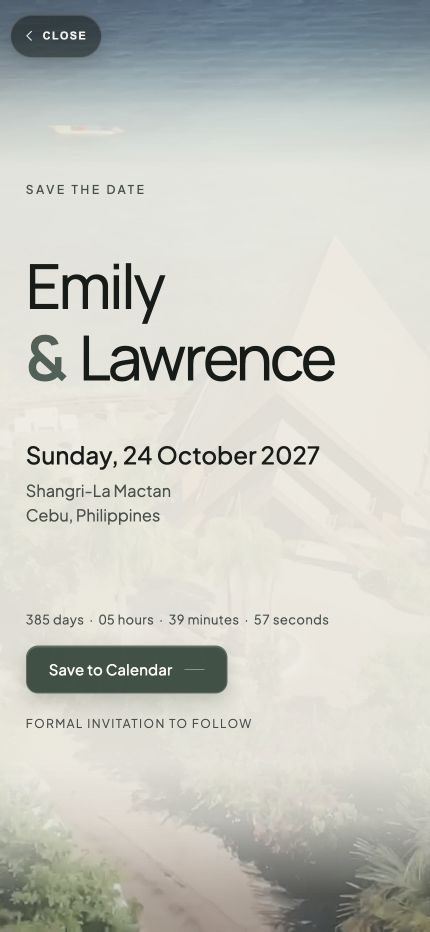
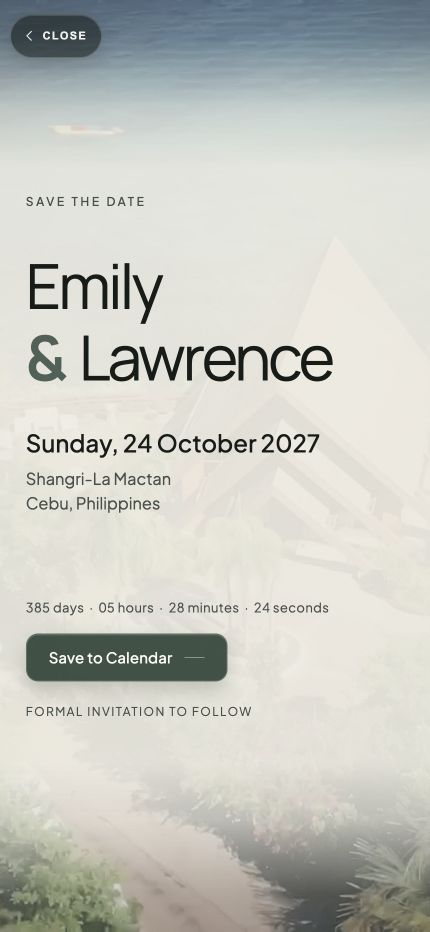
Lighten and tighten Save the Date name lockup

diff --git a/src/styles/save-the-date.names.css b/src/styles/save-the-date.names.css
@@ -11,23 +11,24 @@
 .names--lockup {
   --lockup-size: clamp(2.75rem, 14.5vw, 3.875rem);
 
-  /* Retain the three-row baseline's occupied height so the label, details,
-     countdown and actions stay where they were. Legacy em values resolve
-     against the unchanged parent font size; the visible rows set their own. */
+  /* Shorten the old three-row slot to bring the label and date closer to the
+     two visible lines. Legacy em values still resolve against the unchanged
+     parent font size; the visible rows set their own. */
   min-block-size: calc(
-    var(--names-size) * (2 * var(--names-leading) + 0.19) + 2 * var(--names-gap)
+    var(--names-size) * (2 * var(--names-leading) + 0.19) + 2 * var(--names-gap) -
+      clamp(1.5rem, 3.5vw, 3.25rem)
   );
   left: 0;
   top: 0;
   align-content: center;
   gap: calc(var(--lockup-size) * 0.08);
   font-family: "Manrope", "Avenir Next", "Segoe UI", system-ui, sans-serif;
-  font-weight: 450;
+  font-weight: 400;
 }
 
 .names--lockup .names__line {
   font-size: var(--lockup-size);
-  font-weight: 450;
+  font-weight: 400;
   line-height: 1.08;
   letter-spacing: -0.045em;
   white-space: nowrap;

diff --git a/screenshots/name-lockup/README.md b/screenshots/name-lockup/README.md
@@ -7,7 +7,7 @@ uncommitted changes are preserved in the original checkout.
 
 Before: Sirivennela names with a small ampersand on its own middle row.
 After: Manrope, Emily on line one, & Lawrence together on line two. Both names
-use weight 450. Only the ampersand uses 650, in the existing sage-deep colour
+use weight 400. Only the ampersand uses 650, in the existing sage-deep colour
 (`#4e6157`). The live date uses Plus Jakarta Sans; it is preserved unchanged.
 
 ## Exact typography rules
@@ -17,38 +17,40 @@ Only the name markup, a page-level stylesheet import, and the new scoped
 content, material, media and controls are untouched.
 
 - Self-hosted Manrope, variable weights 200-800, normal style, swap display.
-- Visible name rows: weight 450; line height 1.08; tracking -0.045em; no wrapping.
+- Visible name rows: weight 400; line height 1.08; tracking -0.045em; no wrapping.
 - Phone size: `clamp(2.75rem, 14.5vw, 3.875rem)`.
 - Staged tablet/desktop: `8.2cqh` at minimum width 48rem and height 40rem.
 - Existing short landscape layout: `clamp(2rem, 5.5vw, 3rem)`.
 - Inter-line gap: 0.08 times the visible font size.
 - Ampersand: 1em, weight 650, existing sage-deep colour, inline-block with
   0.08em trailing margin plus the normal word space.
-- The lockup is vertically centred in the original name slot. Minimum block
-  height retains the original two full-name rows, small ampersand row, and
-  two gaps: `calc(var(--names-size) * (2 * var(--names-leading) + 0.19) + 2 * var(--names-gap))`.
+- The lockup is vertically centred in a shortened version of the original
+  name slot. Its minimum block height subtracts
+  `clamp(1.5rem, 3.5vw, 3.25rem)` from the original slot height. This brings
+  SAVE THE DATE and Sunday closer to the names without changing their own styles.
 - Old optical left/top offsets reset to zero for this lockup only.
 
 ## Browser verification
 
 | Viewport | Name size | & Lawrence text width / available width | Result |
 | --- | --- | --- | --- |
-| 390 x 844 | 56.55px | 281.44 / 344.20px | Passed |
-| 320 x 568 | 46.40px | 230.92 / 281px | Passed |
-| 430 x 932 | 62px | 308.55 / 379.41px | Passed |
-| 768 x 1024 | 64.124px | 319.10 / 461.05px | Passed |
-| 1440 x 900 | 61.828px | 307.69 / 444.52px | Passed |
+| 390 x 844 | 56.55px | 279.55 / 344px | Passed |
+| 320 x 568 | 46.40px | 229.37 / 281px | Passed |
+| 430 x 932 | 62px | 306.48 / 379px | Passed |
+| 768 x 1024 | 64.124px | 316.95 / 461px | Passed |
+| 1440 x 900 | 61.828px | 305.62 / 445px | Passed |
 
-All five comparisons have no document overflow or name wrapping.
-Computed font, size, weight, colour and line height of the label, date, venue,
-countdown, CTA and note match live production. Their vertical position differs
-by at most 0.016px (browser rounding). The existing two-line date at 320px is
-preserved.
+All five viewports have no document overflow or name wrapping. The label,
+date, venue, countdown, CTA and note retain their production typography and
+colours. The shortened name slot intentionally brings their vertical positions
+closer together. At 390px it closes the space on each side of the names by
+roughly 12px; at 1440px by roughly 25px. The existing two-line date at 320px
+is preserved.
 
 The final desktop review and capture were completed after browser access was
-restored and the user approved continuation. Both names remain weight 450;
-the ampersand alone is 650. The second line occupies 307.69px of the available
-444.52px and remains together.
+restored and the user approved continuation. Both names now have weight 400;
+the ampersand alone is 650. The second line occupies 305.62px of the available
+445px and remains together.
 
 ## Validation
 
